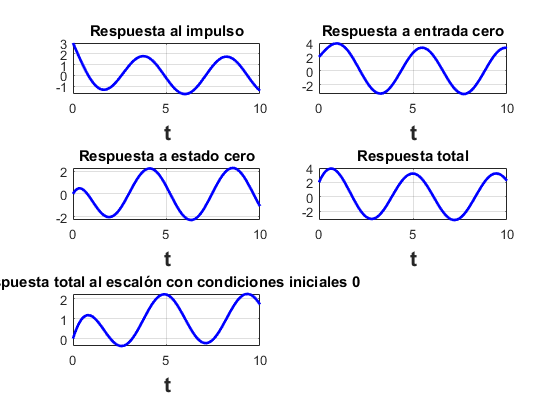
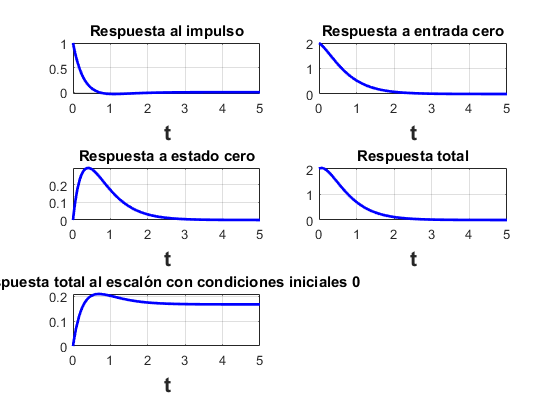
Prueba de funcion

diff --git a/RPL06 Sistemas diferenciales/Ejercicio/html/Practica6.html b/RPL06 Sistemas diferenciales/Ejercicio/html/Practica6.html
@@ -66,15 +66,15 @@ table td { padding:7px 5px; text-align:left; vertical-align:top; border:1px soli
 
 
 
-  </style></head><body><div class="content"><h1>Pr&aacute;ctica 6: Sistemas diferenciales</h1><!--introduction--><p>Alvarado Balbuena Jorge Anselmo</p><!--/introduction--><h2>Contents</h2><div><ul><li><a href="#1">Configuracion de funcion</a></li><li><a href="#2">Problema a resolver</a></li><li><a href="#3">Ejecucion de Funcion</a></li></ul></div><h2>Configuracion de funcion<a name="1"></a></h2><p>Configuracion de funcion</p><pre class="codeinput">sympref(<span class="string">'HeavisideAtOrigin'</span>, 1);
-</pre><h2>Problema a resolver<a name="2"></a></h2><p>Resolver y^(3)+y^(2)+2y^(1)+2y=3x^(2)-x^(1)+2x con y^(2)(0)=1 y^(1)=3</p><p>y(0)=2, x(0)=0 x^(1)=1, x(t)=exp(-t)cos(t)u(t)</p><p>Para 10 segundos</p><h2>Ejecucion de Funcion<a name="3"></a></h2><pre class="codeinput">syms <span class="string">t</span>
-Laplace2016aV2([6 5 1], [1 1], [2 -1], [0 0], 2.*exp(-t).*heaviside(t), 5)
+  </style></head><body><div class="content"><h1>Pr&aacute;ctica 6: Sistemas diferenciales</h1><!--introduction--><p>Alvarado Balbuena Jorge Anselmo</p><!--/introduction--><h2>Contents</h2><div><ul><li><a href="#1">Configuracion de funcion</a></li><li><a href="#2">Ejecucion de Funcion</a></li></ul></div><h2>Configuracion de funcion<a name="1"></a></h2><p>Configuracion de funcion</p><pre class="codeinput">sympref(<span class="string">'HeavisideAtOrigin'</span>, 1);
+syms <span class="string">t</span>
+</pre><h2>Ejecucion de Funcion<a name="2"></a></h2><pre class="codeinput">Laplace2016aV2([6 5 1], [1 1], [2 -1], [0 0], 2.*exp(-t).*heaviside(t), 5)
 
-Laplace2016aV2([10 7 1], [3 2], [0 0 0], [0 0], 3.*exp(-3.*t).*heaviside(t), 5)
+<span class="comment">% Laplace2016aV2([10 7 1], [3 2], [0 0 0], [0 0], 3.*exp(-3.*t).*heaviside(t), 5)</span>
 
-Laplace2016aV2([1 2 1], [1], [1 2], [0], heaviside(t), 5)
+<span class="comment">% Laplace2016aV2([1 2 1], [1], [1 2], [0], heaviside(t), 5)</span>
 
-Laplace2016aV2([2 2 1 1],[2 -1 3],[2 3 1],[0 1],exp(-t)*cos(t)*heaviside(t),10)
+<span class="comment">% Laplace2016aV2([2 2 1 1],[2 -1 3],[2 3 1],[0 1],exp(-t)*cos(t)*heaviside(t),5)</span>
 </pre><pre class="codeoutput">Funcion de tranferencia
     s + 1
 ------------
@@ -100,108 +100,6 @@ exp(-2 t)   exp(-3 t) 2   1
 
 exp(-2 t) 7 - exp(-3 t) 5
 
-Funcion de tranferencia
-   2 s + 3
--------------
- 2
-s  + 7 s + 10
-
-Respuesta al impulso
-exp(-5 t) 7   exp(-2 t)
------------ - ---------
-     3            3
-
-Respuesta a entrada cero
-0
-
-Respuesta a estado cero
-exp(-3 t) 9               exp(-5 t) 7
------------ - exp(-2 t) - -----------
-     2                         2
-
-Respuesta total
-exp(-3 t) 9               exp(-5 t) 7
------------ - exp(-2 t) - -----------
-     2                         2
-
-Respuesta total al escal&oacute;n con condiciones iniciales 0
-exp(-2 t)   exp(-5 t) 7    3
---------- - ----------- + --
-    6            15       10
-
-exp(-3 t) 9               exp(-5 t) 7
------------ - exp(-2 t) - -----------
-     2                         2
-
-Funcion de tranferencia
-      1
-------------
- 2
-s  + 2 s + 1
-
-Respuesta al impulso
-t exp(-t)
-
-Respuesta a entrada cero
-exp(-t) + 3 t exp(-t)
-
-Respuesta a estado cero
-1 - t exp(-t) - exp(-t)
-
-Respuesta total
-2 t exp(-t) + 1
-
-Respuesta total al escal&oacute;n con condiciones iniciales 0
-1 - t exp(-t) - exp(-t)
-
-2 t exp(-t) + 1
-
-Funcion de tranferencia
-      2
-   3 s  - s + 2
------------------
- 3    2
-s  + s  + 2 s + 2
-
-Respuesta al impulso
-2 exp(-t) + cos(sqrt(2) t) - sqrt(2) sin(sqrt(2) t)
-
-Respuesta a entrada cero
-5 exp(-t)   cos(sqrt(2) t)   7 sqrt(2) sin(sqrt(2) t)
---------- + -------------- + ------------------------
-    3              3                     3
-
-Respuesta a estado cero
-                                     /          5 sin(t) \
-2 cos(sqrt(2) t) - exp(-t) - exp(-t) | cos(t) - -------- |
-                                     \              2    /
-
-     3 sqrt(2) sin(sqrt(2) t)
-   - ------------------------
-                 4
-
-Respuesta total
-2 exp(-t)   7 cos(sqrt(2) t)           /          5 sin(t) \
---------- + ---------------- - exp(-t) | cos(t) - -------- |
-    3               3                  \              2    /
-
-     19 sqrt(2) sin(sqrt(2) t)
-   + -------------------------
-                 12
-
-Respuesta total al escal&oacute;n con condiciones iniciales 0
-                             sqrt(2) sin(sqrt(2) t)
-cos(sqrt(2) t) - 2 exp(-t) + ---------------------- + 1
-                                        2
-
-2 exp(-t)   7 cos(sqrt(2) t)           /          5 sin(t) \
---------- + ---------------- - exp(-t) | cos(t) - -------- |
-    3               3                  \              2    /
-
-     19 sqrt(2) sin(sqrt(2) t)
-   + -------------------------
-                 12
-
 </pre><img vspace="5" hspace="5" src="Practica6_01.png" alt=""> <p class="footer"><br><a href="http://www.mathworks.com/products/matlab/">Published with MATLAB&reg; R2016a</a><br></p></div><!--
 ##### SOURCE BEGIN #####
 %% Práctica 6: Sistemas diferenciales
@@ -210,23 +108,16 @@ cos(sqrt(2) t) - 2 exp(-t) + ---------------------- + 1
 %% Configuracion de funcion
 % Configuracion de funcion
 sympref('HeavisideAtOrigin', 1);
-
-%% Problema a resolver
-% Resolver y^(3)+y^(2)+2y^(1)+2y=3x^(2)-x^(1)+2x con y^(2)(0)=1 y^(1)=3
-%
-% y(0)=2, x(0)=0 x^(1)=1, x(t)=exp(-t)cos(t)u(t)
-%
-% Para 10 segundos
+syms t
 
 %% Ejecucion de Funcion
 %
-syms t
 Laplace2016aV2([6 5 1], [1 1], [2 -1], [0 0], 2.*exp(-t).*heaviside(t), 5)
 
-Laplace2016aV2([10 7 1], [3 2], [0 0 0], [0 0], 3.*exp(-3.*t).*heaviside(t), 5)
+% Laplace2016aV2([10 7 1], [3 2], [0 0 0], [0 0], 3.*exp(-3.*t).*heaviside(t), 5)
 
-Laplace2016aV2([1 2 1], [1], [1 2], [0], heaviside(t), 5)
+% Laplace2016aV2([1 2 1], [1], [1 2], [0], heaviside(t), 5)
 
-Laplace2016aV2([2 2 1 1],[2 -1 3],[2 3 1],[0 1],exp(-t)*cos(t)*heaviside(t),10)
+% Laplace2016aV2([2 2 1 1],[2 -1 3],[2 3 1],[0 1],exp(-t)*cos(t)*heaviside(t),5)
 ##### SOURCE END #####
 --></body></html>

diff --git a/RPL06 Sistemas diferenciales/Ejercicio/Practica6.m b/RPL06 Sistemas diferenciales/Ejercicio/Practica6.m
@@ -8,7 +8,7 @@ syms t
 
 %% Ejecucion de Funcion
 %
-% Laplace2016aV2([6 5 1], [1 1], [2 -1], [0 0], 2.*exp(-t).*heaviside(t), 5)
+Laplace2016aV2([6 5 1], [1 1], [2 -1], [0 0], 2.*exp(-t).*heaviside(t), 5)
 
 % Laplace2016aV2([10 7 1], [3 2], [0 0 0], [0 0], 3.*exp(-3.*t).*heaviside(t), 5)
 
